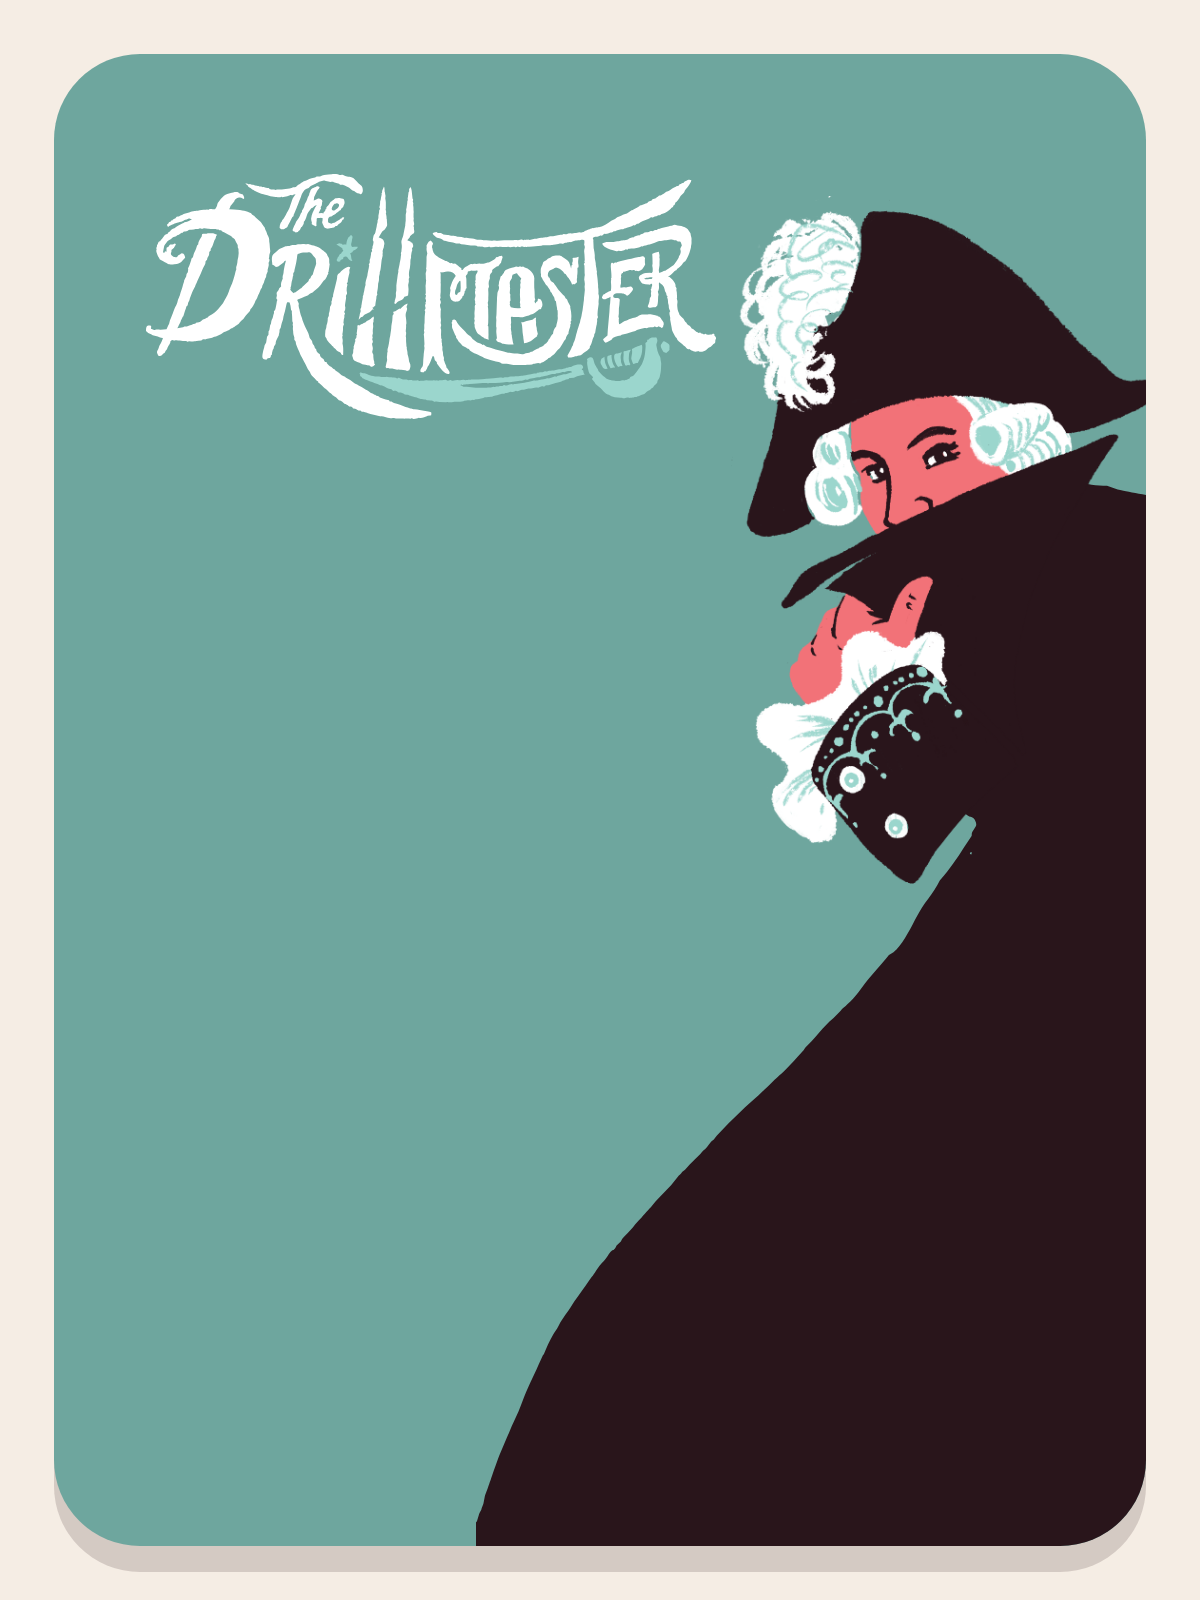
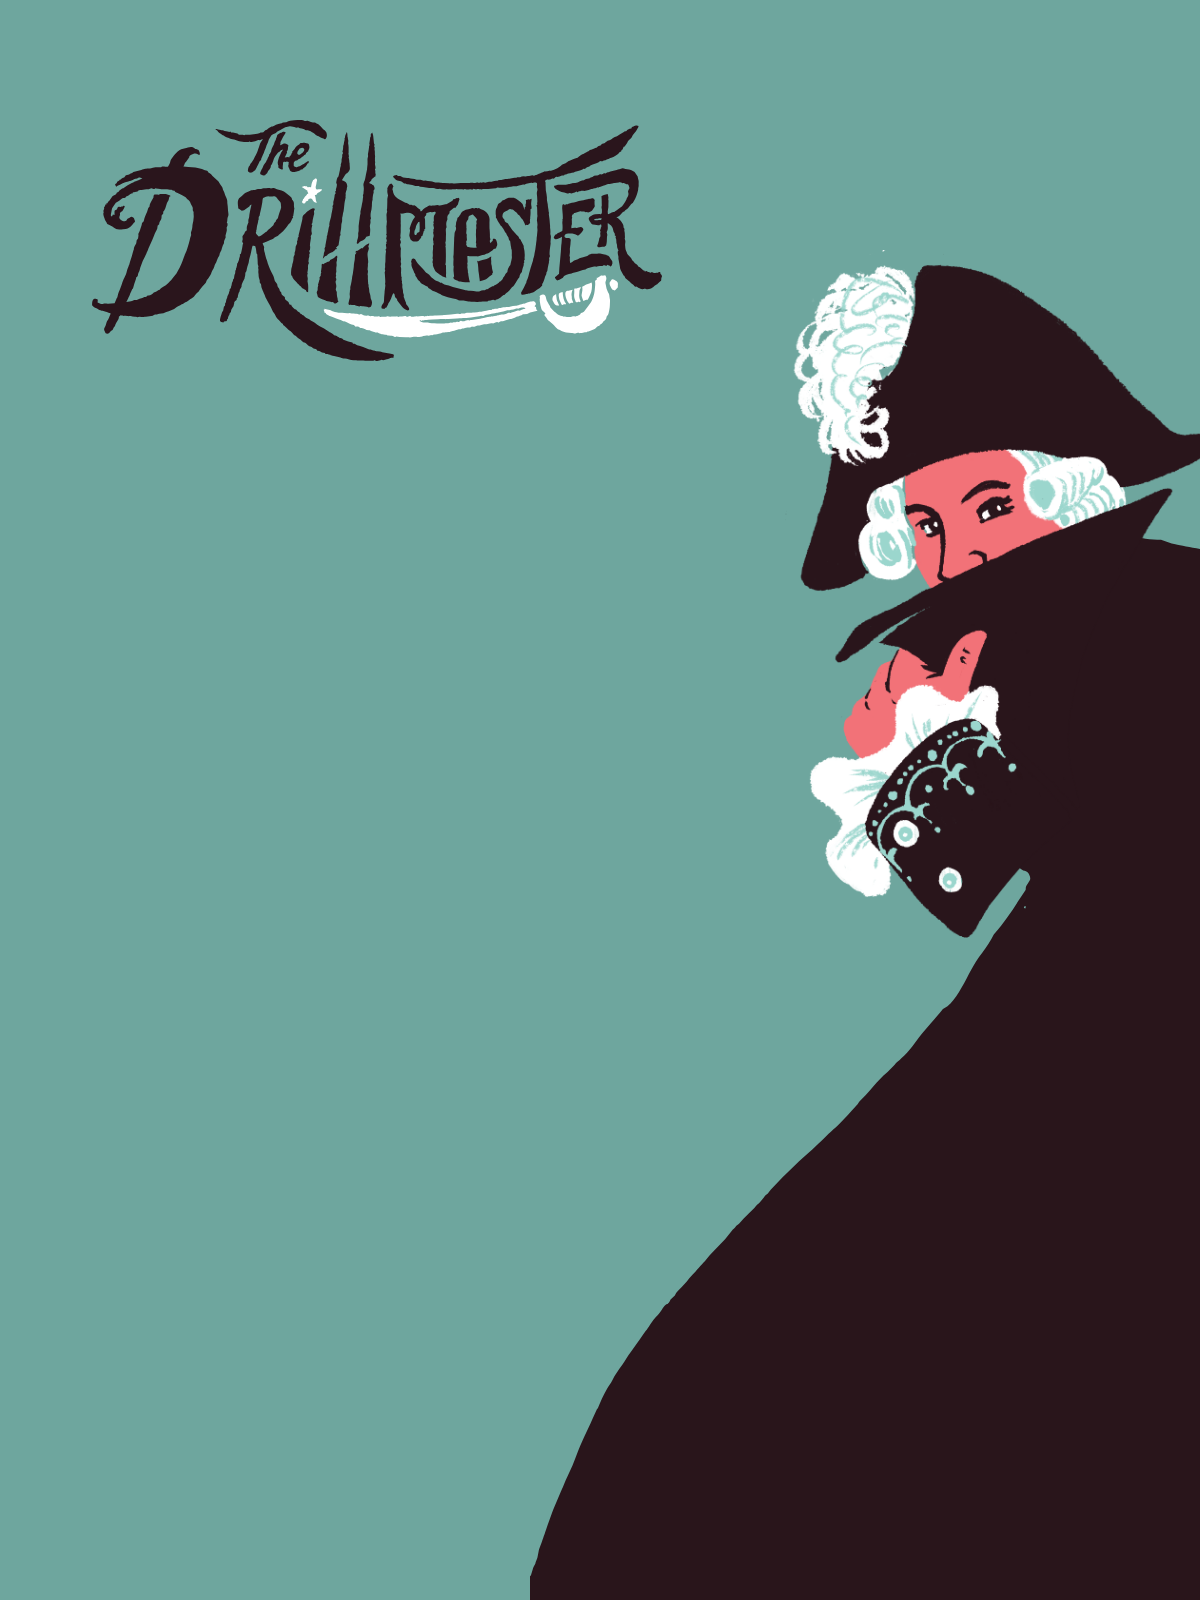
fix(the-drillmaster-site): make social preview full bleed
Made-with: Cursor

Changed region(s): [[0.0, 0.0, 1.0, 1.0]]

diff --git a/the-drillmaster-site/og-template.html b/the-drillmaster-site/og-template.html
@@ -8,18 +8,16 @@
   body {
     width: 1200px;
     height: 1600px;
-    background: #f5ede4;
+    background: #6ea69e;
     overflow: hidden;
     position: relative;
   }
 
   .card {
     position: absolute;
-    inset: 54px;
+    inset: 0;
     overflow: hidden;
-    border-radius: 86px;
     background: #6ea69e;
-    box-shadow: 0 26px 0 rgba(41, 21, 27, 0.16);
   }
 
   .art {
@@ -50,7 +48,7 @@
   <div class="card">
     <div class="art">
       <img class="figure" src="public/brand/cape-large.svg" alt="" />
-      <img class="logo" src="public/brand/title-white.svg" alt="The Drillmaster" />
+      <img class="logo" src="public/brand/title-black.svg" alt="The Drillmaster" />
     </div>
   </div>
 </body>